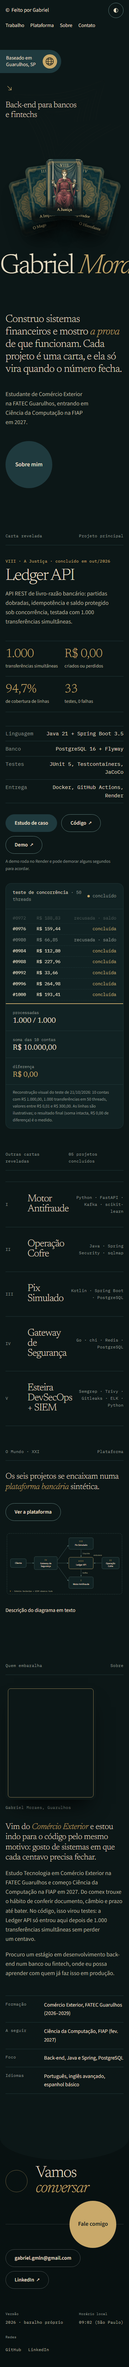
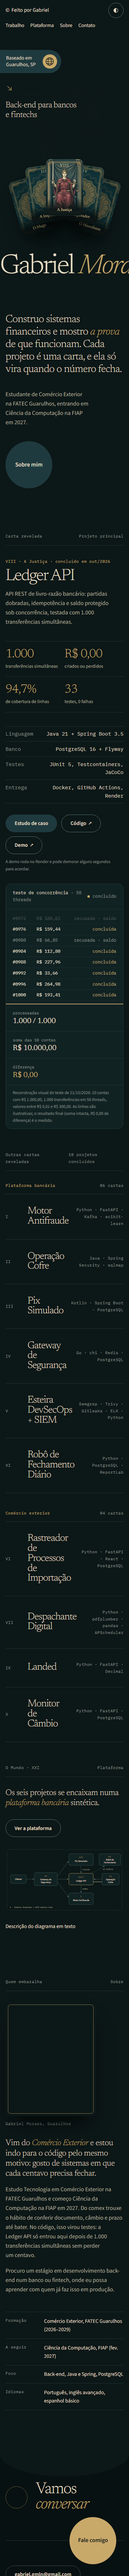
feat(ui): índice da home em dois grupos e Robô de Fechamento no diagrama da plataforma; e2e e Lighthouse v7.1

diff --git a/tests/e2e/v7.spec.ts b/tests/e2e/v7.spec.ts
@@ -157,3 +157,29 @@ test('/plataforma: SVG com role="img", <title>, <desc> e descrição em texto', 
   await expect(texto).toHaveAttribute('open', '');
   await expect(texto.locator('li').first()).toBeVisible();
 });
+
+test('home: índice em dois grupos (Plataforma bancária e Comércio exterior), por numeral', async ({ page }) => {
+  await page.goto('/', { waitUntil: 'networkidle' });
+  const bancos = page.locator('[data-grupo="grupo-bancos"]');
+  const comex = page.locator('[data-grupo="grupo-comex"]');
+  await expect(bancos.locator('h3')).toHaveText('Plataforma bancária');
+  await expect(comex.locator('h3')).toHaveText('Comércio exterior');
+  const numerais = async (g: typeof bancos) => (await g.locator('.indice .n').allTextContents()).map((t) => t.trim());
+  expect(await numerais(bancos)).toEqual(['I', 'II', 'III', 'IV', 'V', 'XI']);
+  expect(await numerais(comex)).toEqual(['VI', 'VII', 'IX', 'X']);
+});
+
+for (const slug of ['rastreador-importacao', 'despachante-digital', 'landed', 'monitor-cambio', 'robo-fechamento']) {
+  test(`projeto novo ${slug}: abre com métricas`, async ({ page }) => {
+    const r = await page.goto(`/projetos/${slug}`, { waitUntil: 'networkidle' });
+    expect(r?.status()).toBe(200);
+    await expect(page.locator('h1')).toHaveCount(1);
+    await expect(page.locator('.proj__dados .nums b').first()).toBeVisible();
+  });
+}
+
+test('/plataforma: o diagrama inclui o Robô de Fechamento (XI)', async ({ page }) => {
+  await page.goto('/plataforma', { waitUntil: 'networkidle' });
+  expect(await page.locator('svg[role="img"] desc').first().textContent()).toContain('Robô de Fechamento');
+  await expect(page.locator('details.diagrama__texto')).toContainText('Robô de Fechamento Diário');
+});

diff --git a/qa/lighthouse.md b/qa/lighthouse.md
@@ -87,3 +87,21 @@ CLS: 0,035–0,039 em `/` e 0,036 em `/plataforma/` no mobile; 0,000–0,007 no 
 - SEO 66 na 404 é esperado (`noindex`), isento nas asserções.
 
 **Corrigido no v7 que mexe nessas medidas:** `html.js-motion` passou a ser ligado por `public/movimento.js` síncrono no `<head>` (sem quadro do estado final antes de esconder); leque do celular com `sizes` de 9rem para a carta maior.
+
+## v7.1 — 2026-10-30
+
+`LHCI_SEM_INJECAO=1 corepack pnpm lhci:mobile` (mobile, mediana de 3 execuções, sobre o `dist/` com os 5 projetos novos). Execução representativa:
+
+| Página                        | Performance | Acessibilidade | Boas práticas | SEO                        |
+| ----------------------------- | ----------- | -------------- | ------------- | -------------------------- |
+| `/`                           | 93          | 100            | 82            | 100                        |
+| `/plataforma/`                | 95          | 100            | 82            | 100                        |
+| `/sobre/`                     | 97          | 100            | 82            | 100                        |
+| `/projetos/`                  | 98          | 100            | 82            | 100                        |
+| `/projetos/ledger-api/`       | 95          | 100            | 82            | 100                        |
+| `/projetos/motor-antifraude/` | 96          | 100            | 82            | 100                        |
+| `/projetos/landed/` (nova)    | 95          | 100            | 82            | 100                        |
+| `/projetos/portfolio/`        | 97          | 100            | 82            | 100                        |
+| `/404.html`                   | 97          | 100            | 82            | 66 (noindex, não avaliado) |
+
+A asserção falhou só em Boas práticas (82 < 95), em todas as páginas, pela mesma auditoria: `is-on-https`, apontando um script HTTP do antivírus Kaspersky (`gc.kis.v2.scr.kaspersky-labs.com`) injetado na página. Mesmo com o bloqueio do `LHCI_SEM_INJECAO`, a requisição ainda é contada. Não vem do site; precisa ser repetido numa máquina sem o antivírus (ou na CI) para confirmar o valor real.
